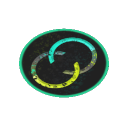
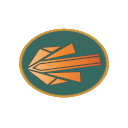
adding remaining attachments

Changed region(s): [[0.125, 0.2188, 0.875, 0.7812]]

diff --git a/src/discordant-stars/factions/gledge.js b/src/discordant-stars/factions/gledge.js
@@ -10,6 +10,8 @@ const localeStrings = {
   "unit.pds.orion_platform": "Orion Platform",
   "unit.pds.orion_platform_2": "Orion Platform 2",
   "unit_modifier.desc.beg_bersha": "When this unit makes a combat or ability roll, it rolls 1 additional die for each of your mechs in or adjacent to this system.",
+  "attachment:homebrew.discordant_stars.gledge_base/gledge": "Gledge Base",
+  "attachment:homebrew.discordant_stars.gledge_core/gledge": "Gledge Core",
 };
 
 
@@ -159,10 +161,33 @@ const unitModifiers = [{
 },
 ];
 
+
+const attachments = [{
+  packageId: refPackageId,
+  localeName: "attachment:homebrew.discordant_stars.gledge_core/gledge",
+  cardNsid: "card.promissory.gledge:homebrew.discordant_stars/gledge_core",
+  tokenNsid: "token.attachment:homebrew.discordant_stars.core/gledge",
+  faceUp: {
+    resources: 2, // TODO: should overwrite the base, not add
+    influence: 0, // TODO: should overwrite the base, not add
+    image: "discordant-stars/extras/Gledge Core.png",
+  },
+},{
+  packageId: refPackageId,
+  localeName: "attachment:homebrew.discordant_stars.gledge_base/gledge",
+  cardNsid: "card.promissory.gledge:homebrew.discordant_stars/gledge_base",
+  tokenNsid: "token.attachment:homebrew.discordant_stars.base/gledge",
+  faceUp: {
+    resources: 2,
+    image: "discordant-stars/extras/Gledge Base.png",
+  },
+},];
+
 //TODO: add promissory note attachement logic
 
 world.TI4.homebrew.inject({
   localeStrings,
+  attachments,
   factions,
   nsidToTemplateId,
   systems,

diff --git a/src/discordant-stars/factions/free_systems.js b/src/discordant-stars/factions/free_systems.js
@@ -11,6 +11,7 @@ const localeStrings = {
   "unit.flagship.vox": "Vox",
   "unit.mech.liberator": "Liberator",
   "unit_modifier.desc.vox": "When this unit makes a combat roll, it rolls 1 additional die for each planet in this system of any single trait.",
+  "attachment:homebrew.discordant_stars.count_otto_pmay/free_systems": "Heart of Rebellion",
 };
 
 const factions = [{
@@ -149,8 +150,22 @@ const unitModifiers = [
     // TODO (RM/button) covert strike teams - Ambush did it with a button, but there is no registration API yet
   },];
 
+
+
+
+  const attachments = [{
+    packageId: refPackageId,
+    localeName: "attachment:homebrew.discordant_stars.count_otto_pmay/free_systems",
+    cardNsid: "card.leader.hero.free_systems:homebrew.discordant_stars/count_otto_pmay",
+    tokenNsid: "token.unit:homebrew.discordant_stars.space_dock/free_systems",
+    faceUp: {
+      image: "discordant-stars/tokens/faction/free_systems_rebellion_token_back.png",
+    },
+  },];
+
 world.TI4.homebrew.inject({
   localeStrings,
+  attachments,
   factions,
   nsidToTemplateId,
   systems,

diff --git a/src/discordant-stars/factions/rohdhna.js b/src/discordant-stars/factions/rohdhna.js
@@ -9,6 +9,7 @@ const localeStrings = {
   "unit.mech.autofabricator": "autofabricator",
   "unit.war_sun.terrafactory": "Terrafactory",
   "unit.war_sun.terrafactory_2": "Terrafactory 2",
+  "attachment:homebrew.discordant_stars.automatons/rohdhna": "Automatons",
 };
 
 
@@ -144,8 +145,20 @@ const unitAttrs = [
 
 const unitModifiers = [];
 
+
+const attachments = [{
+  packageId: refPackageId,
+  localeName: "attachment:homebrew.discordant_stars.automatons/rohdhna",
+  cardNsid: "card.promissory.rohdhna:homebrew.discordant_stars/automatons",
+  tokenNsid: "token.attachment:homebrew.discordant_stars.automatons/rohdhna",
+  faceUp: {
+    image: "discordant-stars/tokens/faction/rohdhna_automatons.face.jpg",
+  },
+},];
+
 world.TI4.homebrew.inject({
   localeStrings,
+  attachments,
   factions,
   nsidToTemplateId,
   systems,
